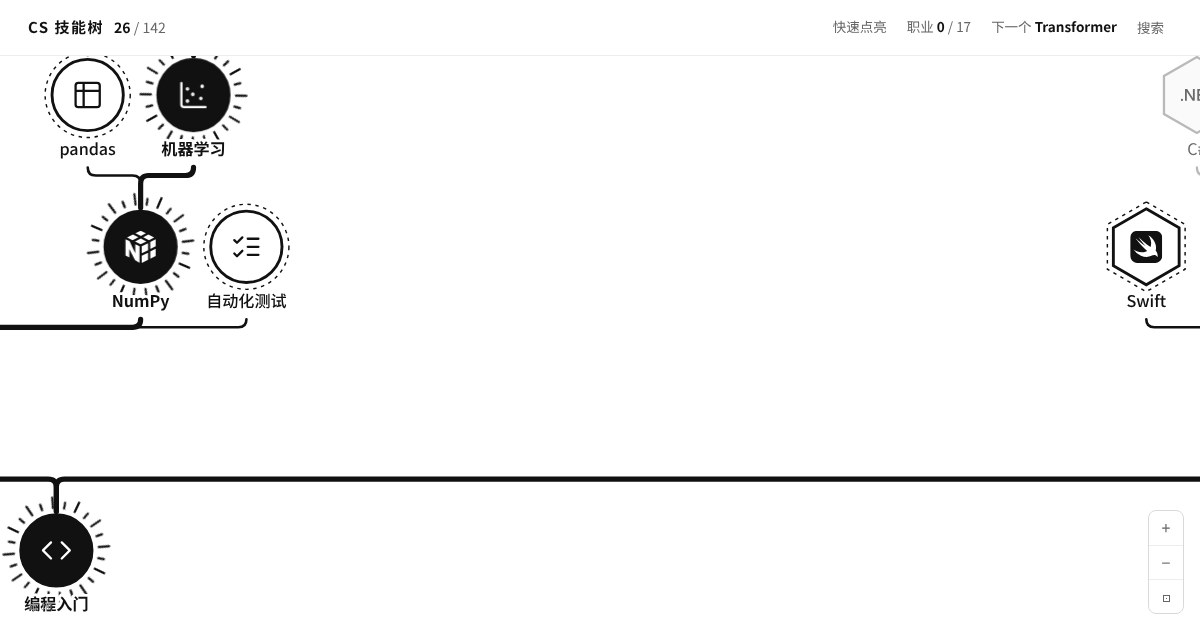
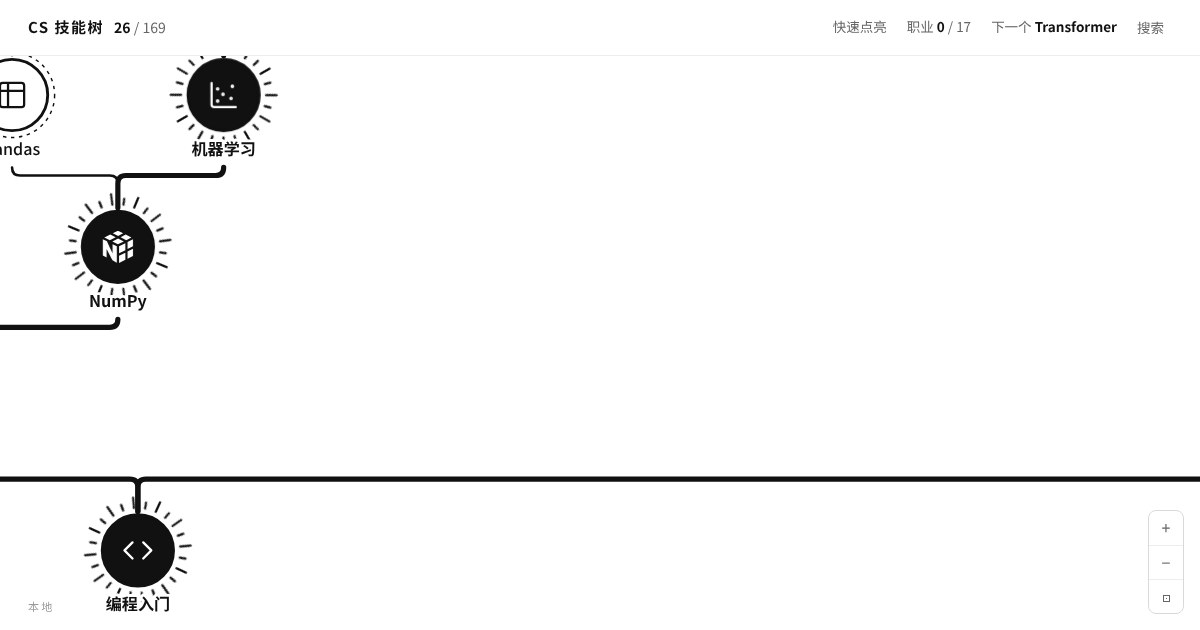
Even out the career badges: 20 to 34 skills each, five groups, star tiers
Badges needed anywhere from 10 to 42 skills, because the AI side was
deep and the rest thin. 27 new skills fill the thin careers with real
job skills:

- Frontend: browser internals, web performance, build tooling,
  end-to-end tests, component libraries, Vue, 3D on the web
- Mobile: SwiftUI, Jetpack Compose, Dart and Flutter, app release
- Games: shaders, gameplay programming, game physics, multiplayer
- Systems: driver development, real-time operating systems
- SRE: infrastructure as code, incident response
- ML algorithms: feature engineering, gradient boosting, ranking
  models, object detection, A/B testing
- Quant: portfolio optimization, derivatives pricing

Pretraining from scratch no longer requires the training frameworks,
which drops the LLM algorithm badge from 42 to 24. Thin badges also
pick up CI/CD and other skills the job really uses. Every badge now
needs between 20 and 34 skills.

Indie developer becomes product engineer, a real job title. Badges are
regrouped into five even groups: AI algorithms, AI infrastructure,
products and clients, backend and systems, data and security. Badges
show a star tier by how many skills they need (one star up to 22, two
up to 29, three from 30), like rarity in a game.

Claude-Session: https://claude.ai/code/session_01VcDYgFzowvD3W4KKBaHuKd

diff --git a/src/components/SkillTree.tsx b/src/components/SkillTree.tsx
@@ -6,6 +6,7 @@ import { memo, useCallback, useEffect, useMemo, useRef, useState, type PointerEv
 import type { SkillState } from '../types'
 import { useApp } from '../state'
 import { LABEL_Y, layoutWeb, NODE_R, subNodeId, TIP_R } from '../lib/webLayout'
+import { stars, tierOf } from '../lib/tree'
 import { ICONS } from '../generated/icons'
 
 interface View {
@@ -183,7 +184,11 @@ const Tip = memo(function Tip({ id, x, y, name, icon, done, total, focused, dim,
       )}
       {/* 名字和进度写在光芒外面，达成后转起来的光芒不会压到字 */}
       <text className="tip-name" y={-TIP_R - 48}>{name}</text>
-      <text className="tip-pct" y={-TIP_R - 31}>{reached ? '已达成' : `${done} / ${total}`}</text>
+      <text className="tip-pct" y={-TIP_R - 31}>
+        <tspan className="tip-stars">{stars(tierOf(total))}</tspan>
+        {'  '}
+        {reached ? '已达成' : `${done} / ${total}`}
+      </text>
     </g>
   )
 })

diff --git a/src/components/CategoryPanel.tsx b/src/components/CategoryPanel.tsx
@@ -1,5 +1,6 @@
 // 全部职业：技能树最上面一排的终极节点，按大方向分组。不用选：点够了自己达成。
 import { useApp } from '../state'
+import { stars, tierOf } from '../lib/tree'
 
 export function CategoryPanel({ id }: { id: string }) {
   const { tree, readinessBySub, setFocus } = useApp()
@@ -20,7 +21,7 @@ export function CategoryPanel({ id }: { id: string }) {
                 <li key={sid}>
                   <button className={`row-link${reached ? ' is-reached' : ''}`} onClick={() => setFocus({ kind: 'sub', id: sid }, { scroll: true })}>
                     <span>{reached ? '★ ' : ''}{s.name}</span>
-                    <small>{reached ? '已达成' : `${r.coreDone} / ${r.coreTotal}`}</small>
+                    <small>{stars(tierOf(r.coreTotal))}　{reached ? '已达成' : `${r.coreDone} / ${r.coreTotal}`}</small>
                   </button>
                 </li>
               )

diff --git a/src/components/SubPanel.tsx b/src/components/SubPanel.tsx
@@ -3,6 +3,7 @@
 import { useApp } from '../state'
 import { SkillGlyph, Rays, orbitDelay } from './SkillTree'
 import { Links, Meter } from './common'
+import { stars, tierOf } from '../lib/tree'
 import { SkillSlot } from './SkillPanel'
 
 export function SubPanel({ id }: { id: string }) {
@@ -39,7 +40,7 @@ export function SubPanel({ id }: { id: string }) {
           </foreignObject>
         </svg>
         <div className="card-title">
-          <p className="card-kind">职业 · {cat.name}</p>
+          <p className="card-kind">职业 · {cat.name} · <span className="tip-stars">{stars(tierOf(r.coreTotal))}</span></p>
           <h2>{sub.name}</h2>
           <span className={`badge ${reached ? 'b-done' : 'b-available'}`}>{reached ? '已达成' : `${r.coreDone} / ${r.coreTotal}`}</span>
         </div>

diff --git a/tests/db.test.ts b/tests/db.test.ts
@@ -25,7 +25,7 @@ test('技能数量在预期范围内，每个都有等级和图标', () => {
   const n = (sql: string) => (db.prepare(sql).get() as Row).n as number
   // 技能是能写进简历的能力，不是知识点：几十个，而不是几百个
   const skills = n('SELECT COUNT(*) AS n FROM skills')
-  assert.ok(skills >= 80 && skills <= 160, `技能有 ${skills} 个`)
+  assert.ok(skills >= 120 && skills <= 220, `技能有 ${skills} 个`)
   assert.ok(n('SELECT COUNT(*) AS n FROM skill_prerequisites') >= 50)
   assert.equal(n('SELECT COUNT(*) AS n FROM skills WHERE icon IS NULL'), 0)
   assert.equal(n('SELECT COUNT(*) AS n FROM skill_level WHERE level NOT BETWEEN 1 AND 5'), 0)

diff --git a/src/lib/tree.ts b/src/lib/tree.ts
@@ -247,3 +247,13 @@ export function isReached(tree: Tree, subId: string, progress: Progress): boolea
   for (const id of tree.closures.get(subId)!) if (progress.skills[id]?.status !== 'done') return false
   return true
 }
+
+/**
+ * 徽章的星级：要点亮的技能越多越难拿。一星 ≤ 22 个，二星 23–29 个，三星 ≥ 30 个。
+ * 像游戏里的稀有度：粒度一样的岗位，难度可以不一样。
+ */
+export function tierOf(total: number): 1 | 2 | 3 {
+  return total >= 30 ? 3 : total >= 23 ? 2 : 1
+}
+
+export const stars = (tier: number) => '★'.repeat(tier) + '☆'.repeat(3 - tier)

diff --git a/src/styles.css b/src/styles.css
@@ -233,6 +233,13 @@ a {
   text-anchor: middle;
 }
 
+/* 徽章星级：黑星是难度，空星补齐三颗 */
+.tip-stars {
+  fill: var(--ink);
+  color: var(--ink);
+  letter-spacing: 0.05em;
+}
+
 .tip:hover .seal,
 .tip.focused .seal {
   stroke-width: 5;

diff --git a/docs/ART.md b/docs/ART.md
@@ -46,7 +46,7 @@
 - **一列一列**：每个节点只画一根枝，连到它的主前置。所以画出来是一条条竖直的链，比如 Python → NumPy → 机器学习 → 深度学习 → PyTorch → Transformer → 从零实现 GPT → vLLM 推理 → 分布式推理。只有编程入门、Python、计算机系统这种关键节点才一分多。
 - **左右的顺序**：AI 产品在左，主线 AI Infra 在中间，底层系统和安全在右，数学、量化和工具在最右。
 - **其余前置不画线**（会横穿整张图）。悬停或选中一个技能时，只亮它往下的全部依赖，都是黑边；面板里用小节点列出下一级。
-- **最上面一排是职业，也就是终极节点**：17 枚，覆盖计算机毕业生的主要去处，粒度统一到招聘时的岗位名（对齐“后端工程师”这一级）。一枚双圈的奖章（外面一圈粗线、里面紧贴一圈细线），比普通节点大一号，中间是职业图标；外面一圈进度环，要学的技能点亮多少就黑多少；上面是加粗的名字和“已点亮几个 / 一共几个”。从它挂的技能一根实线直直连上去。不用选职业：要学的都点亮了，它自己就达成——徽章变黑、图标变白，外面一大圈光芒慢慢转；达成那一刻徽章弹一下，两圈波纹和十六道光芒冲出去，底下提示“达成职业”。点它，树上亮出它要学的全部技能。
+- **最上面一排是职业，也就是终极节点**：17 枚，覆盖计算机毕业生的主要去处，粒度统一到招聘时的岗位名（对齐“后端工程师”这一级）。一枚双圈的奖章（外面一圈粗线、里面紧贴一圈细线），比普通节点大一号，中间是职业图标；外面一圈进度环，要学的技能点亮多少就黑多少；上面是加粗的名字，下面一行是星级和“已点亮几个 / 一共几个”。星级按要点亮的技能数分：22 个及以下一星，23 到 29 个二星，30 个及以上三星——粒度一样的岗位，难度可以不一样，像游戏里的稀有度。各个徽章要点亮的技能数控制在 20 到 34 个之间。从它挂的技能一根实线直直连上去。不用选职业：要学的都点亮了，它自己就达成——徽章变黑、图标变白，外面一大圈光芒慢慢转；达成那一刻徽章弹一下，两圈波纹和十六道光芒冲出去，底下提示“达成职业”。点它，树上亮出它要学的全部技能。
 - **枝条是直角折线**：从父节点顶上出发，往上到两排中间，横过去，再往上停在孩子名字的下面。拐角是小圆角。线永远不穿过字。两头都点亮的枝是黑色的粗线；从已点亮长向能点亮的是黑线，告诉你下一步往哪走；其余是中灰。
 - **打开时**不看全图：放大到 115%（手机 85%），从最下面的起点看起，主线在屏幕中间；往上拖或点“看全图”再看方向。
 

diff --git a/README.md b/README.md
@@ -4,8 +4,8 @@
 
 **一棵从下往上长的 CS 技能树：点亮你会的，看清自己的能力边界和下一步。**
 
-- 142 个能写进简历的技能，从编程入门、数据结构、计算机系统、操作系统，到 PyTorch、CUDA、vLLM 推理、Agent 开发，每个都有自己的图标
-- 像游戏的技能树：一列一列往上长，一条条链只在关键节点分叉；最上面一排是 17 枚职业徽章，覆盖计算机毕业生的主要去处：大模型算法、推理、后端、前端、移动端、游戏、系统、数据、安全……
+- 169 个能写进简历的技能，从编程入门、数据结构、计算机系统、操作系统，到 PyTorch、CUDA、vLLM 推理、Agent 开发，每个都有自己的图标
+- 像游戏的技能树：一列一列往上长，一条条链只在关键节点分叉；最上面一排是 17 枚职业徽章，覆盖计算机毕业生的主要去处：大模型算法、推理、后端、前端、移动端、游戏、系统、数据、安全……每枚要点亮 20 到 34 个技能，按难度分一到三星
 - 不用先选职业：要学的技能都点亮了，那枚职业徽章自己就亮起来
 - 编程语言是特别的“语言天赋”，画成六边形
 - 只有点亮和没点亮，而且像游戏一样**前置都点亮了才能点亮**。能点亮的那一圈就是你的**能力边界**

diff --git a/docs/README.en.md b/docs/README.en.md
@@ -4,7 +4,7 @@
 
 **A computer science skill tree that grows from the bottom up: light up what you know and see your frontier and next step.**
 
-- 142 skills you could put on a résumé, from intro programming, data structures, computer systems and operating systems to PyTorch, CUDA, vLLM inference and agents, each with its own icon
+- 169 skills you could put on a résumé, from intro programming, data structures, computer systems and operating systems to PyTorch, CUDA, vLLM inference and agents, each with its own icon
 - Like a game skill tree: columns growing upward, long chains that fork only at key nodes, and 17 career badges along the top row, covering where CS graduates usually end up, as final nodes that light up on their own once everything they need is lit
 - Two states only: lit or not lit
 
